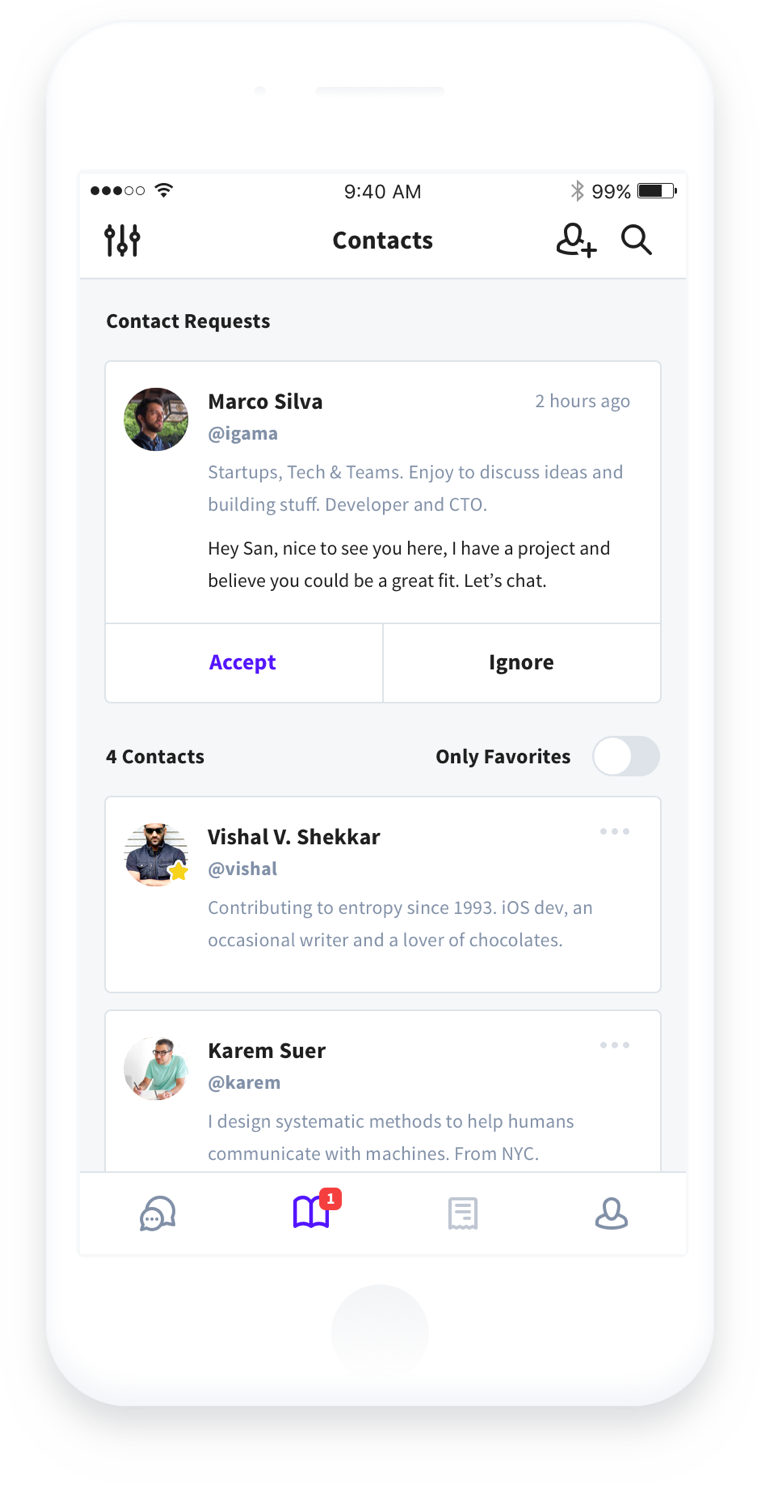
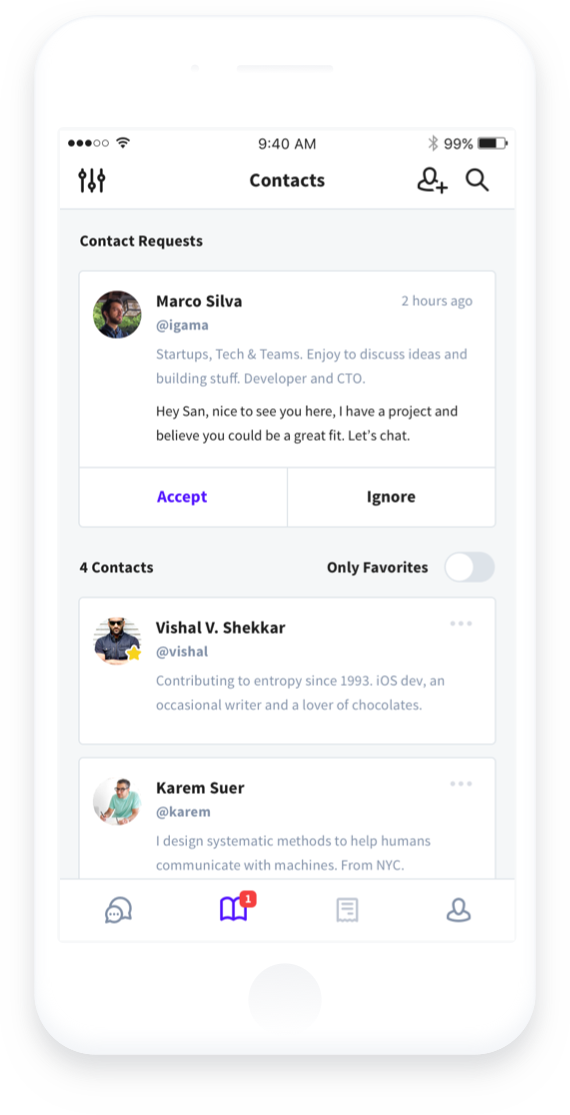
Compressed images further and uglified JS.

diff --git a/public/assets/scripts/main.min.js b/public/assets/scripts/main.min.js
@@ -1,0 +1,13 @@
+var PLTFRM={init:function(){window.innerWidth<768?PLTFRM.Sliders.init():PLTFRM.Clicker.init(),this.Resizer.init(),this.Retina.init()},Clicker:{init:function(){document.querySelector(this.data.selector).classList.add("active"),this.data.swipe=Swipe(PLTFRM.Phones.clickEl,PLTFRM.Sliders.options),this.addListeners()},data:{selector:".functionality",swipe:null},addListeners:function(){for(var e=document.querySelectorAll(this.data.selector),i=e.length,t=0;i>t;t++)e[t].setAttribute("data-index",t),e[t].addEventListener("click",this.handleClick,!1)},handleClick:function(){PLTFRM.Clicker.removeActive(e)
+var e=this.getAttribute("data-index")
+PLTFRM.Clicker.goToPhone(e),this.classList.add("active")},removeActive:function(){document.querySelector(this.data.selector+".active").classList.remove("active")},goToPhone:function(e){this.data.swipe.slide(e,500)}},Phones:{swipeEl:document.querySelector("#slider"),clickEl:document.querySelector("#bigPhonePic")},Sliders:{init:function(){this.data.swipe=Swipe(PLTFRM.Phones.swipeEl,PLTFRM.Sliders.options),PLTFRM.Sliders.setSlideClasses(0)},data:{swipe:null},options:{startSlide:0,speed:400,auto:7e3,draggable:!1,continuous:!0,disableScroll:!0,stopPropagation:!0,callback:function(e){PLTFRM.Sliders.setSlideClasses(e)}},setSlideClasses:function(e){var i=document.querySelectorAll(".functionality"),t=e-1,n=e+1
+0>t&&(t=i.length-1),n>=i.length&&(n=0)
+for(var s=0;s<i.length;s++)i[s].classList.remove("next"),i[s].classList.remove("previous"),i[s].classList.remove("active"),i[s].dataset.index==t?i[s].classList.add("previous"):i[s].dataset.index==n?i[s].classList.add("next"):i[s].classList.add("active")}},Resizer:{init:function(){window.onresize=function(){window.innerWidth<768&&null===PLTFRM.Sliders.data.swipe?(PLTFRM.Clicker.data.swipe.kill(),PLTFRM.Clicker.data.swipe=null,PLTFRM.Sliders.init()):window.innerWidth>=768&&null===PLTFRM.Clicker.data.swipe&&(setTimeout(function(){PLTFRM.Sliders.data.swipe.kill(),PLTFRM.Sliders.data.swipe=null},200),PLTFRM.Clicker.init())}}},Retina:{init:function(){if(window.devicePixelRatio>1&&Utils.detectIE())for(var e=document.querySelectorAll("img"),i=e.length,t=0;i>t;t++){var n=e[t].src.split(".");("jpg"===n[1]||"png"===n[1])&&(e[t].src=n[0]+"@2x."+n[1])}}},Scroller:{toSection:function(e,i,t){var n=e.offsetTop,s=document.querySelector(i).offsetTop,l=n>s?n-s:s,o=document.body.offsetHeight-window.innerHeight
+l>o&&(l=o-2)
+var t=t||400,r=l/t*10
+this.stepScroll(r,l)},stepScroll:function(e,i){setTimeout(function(){var t=window.scrollY
+window.scrollTo(0,t+e),window.scrollY<=i&&PLTFRM.Scroller.stepScroll(e,i)},10)}}},Utils={detectIE:function(){var e=window.navigator.userAgent,i=e.indexOf("Trident/")
+if(i>0){var t=e.indexOf("rv:")
+return parseInt(e.substring(t+3,e.indexOf(".",t)),10)}var n=e.indexOf("Edge/")
+return n>0?parseInt(e.substring(n+5,e.indexOf(".",n)),10):!1}}
+PLTFRM.init()

diff --git a/public/assets/styles/_sections/Support.less b/public/assets/styles/_sections/Support.less
@@ -4,9 +4,6 @@
     margin-left: -10%;
     img {
       width: 100%;
-      &.large {
-        display: none;
-      }
     }
   }
   .card .card-container > div {
@@ -40,14 +37,8 @@
     }
     .main-image {
       img {
-        &.large {
-          display: block;
-          height: 100%;
-          width: auto;
-        }
-        &.min {
-          display: none;
-        }
+        height: 100%;
+        width: auto;
       }
       margin-left: 0;
       height: 100%;

diff --git a/public/assets/styles/_fonts.less b/public/assets/styles/_fonts.less
@@ -2,6 +2,5 @@
 // Fonts
 // --------------------------------------------------------
 
-@font-face{font-family:'Graphik';src:url(../fonts/Graphik-Light.otf) format("truetype");font-weight:300}
 @font-face{font-family:'Graphik';src:url(../fonts/Graphik-Regular.otf) format("truetype");font-weight:400}
 @font-face{font-family:'Graphik';src:url(../fonts/Graphik-Semibold.otf) format("truetype");font-weight:500}

diff --git a/public/assets/styles/_sections/Intro.less b/public/assets/styles/_sections/Intro.less
@@ -6,7 +6,7 @@
     display: flex;
     margin: 2em auto;
     justify-content: center;
-    font-weight: 100;
+    font-weight: normal;
     font-size: 1.5em;
     letter-spacing: 5px;
     img{
